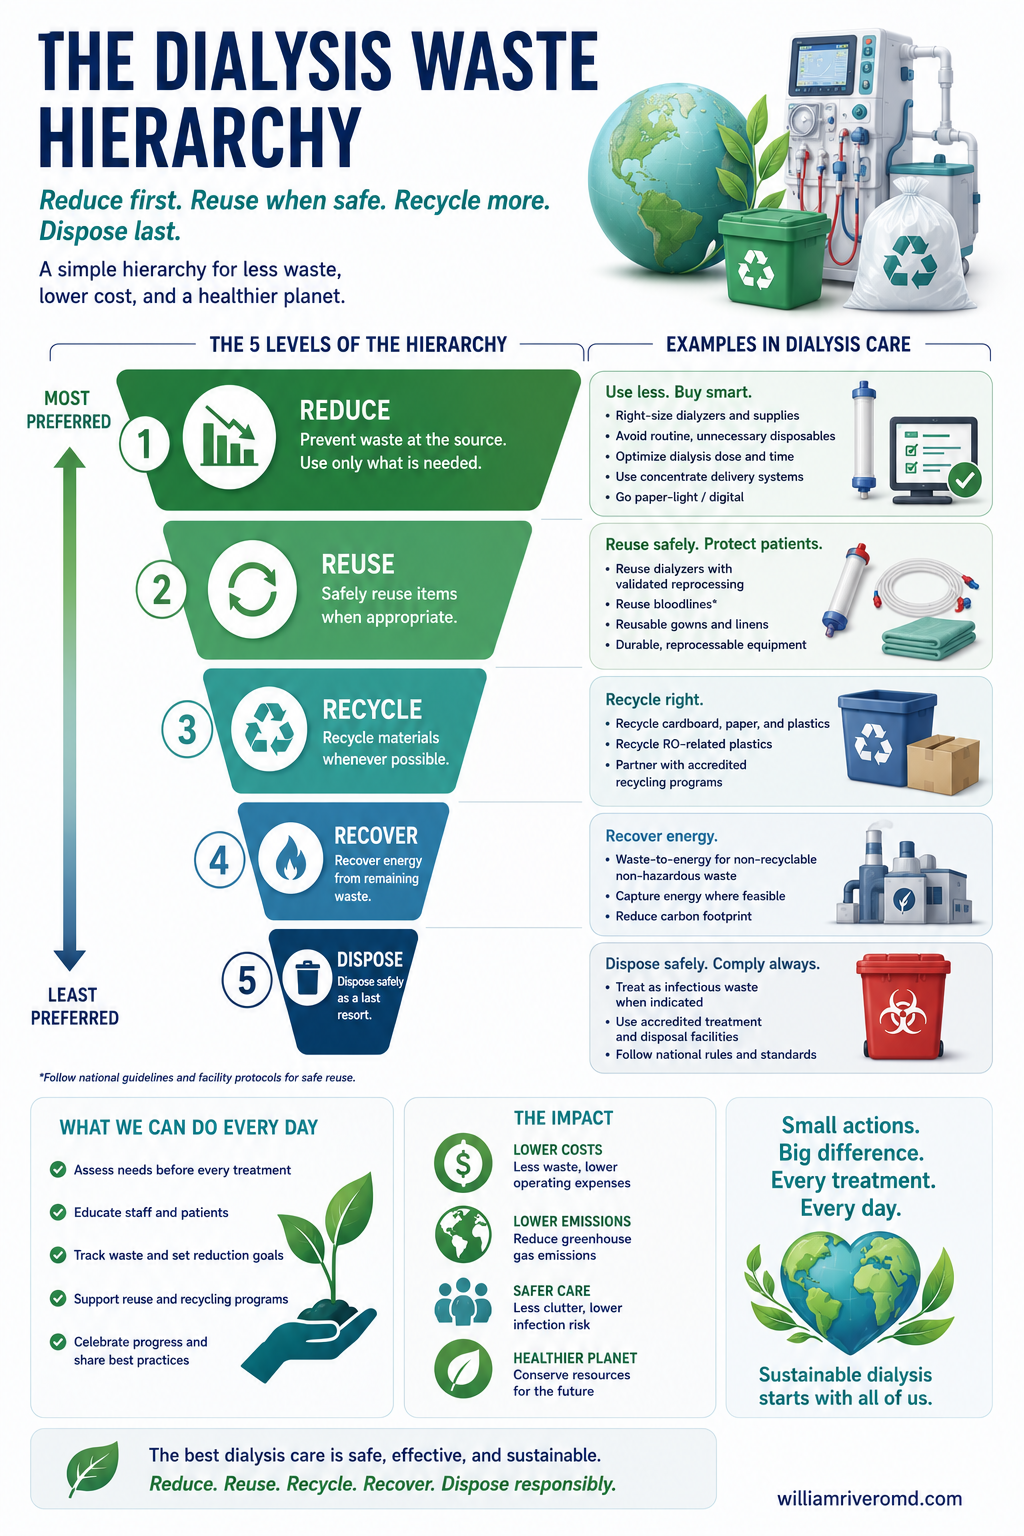
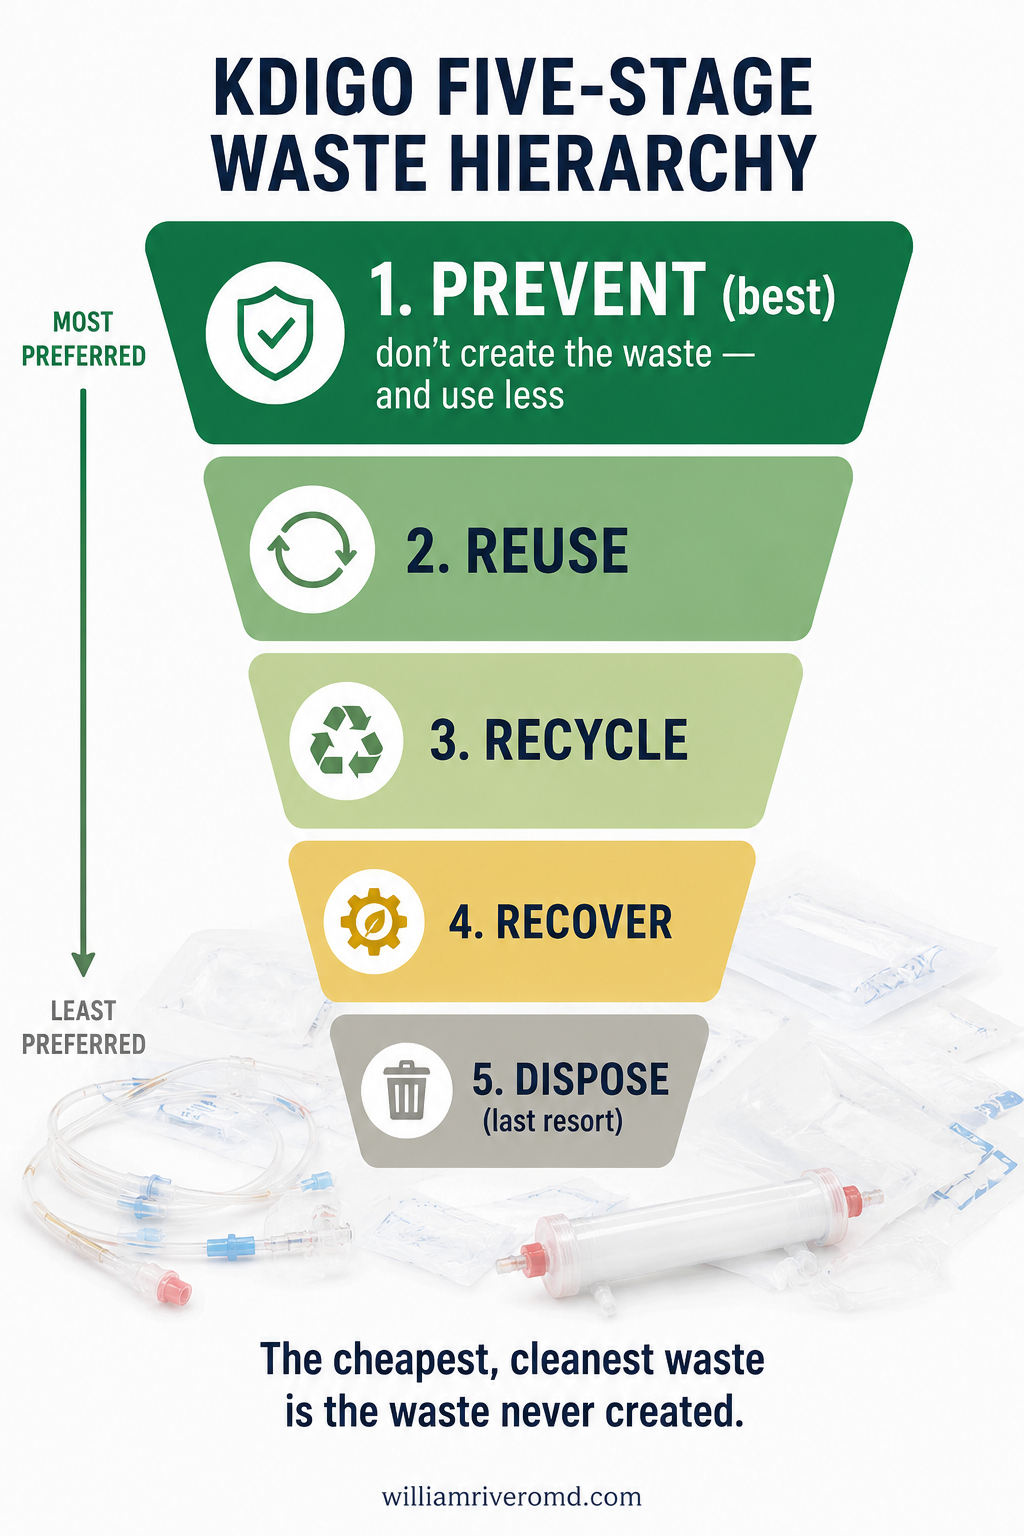
Replace 3 corrected Green Nephrology images (waste 5-stage, water/hidden ~400-500 L)
Drop in the regenerated images that passed QA against the 2026 KDIGO article:
waste-hierarchy now shows the KDIGO 5 stages (Prevent on top), and water-footprint
+ hidden-cost now read ~400-500 L (no Qd-as-machine, no fabricated pie/brands).
Updated HTML width/height for the two that changed shape to 1659x948.

diff --git a/guides/green-nephrology.html b/guides/green-nephrology.html
@@ -1569,7 +1569,7 @@ html[data-theme="dark"] .calc-row input,html[data-theme="dark"] .calc-row select
   <p>Hemodialysis saves lives, but it is among the most resource-intensive therapies in all of medicine — a footprint most people never see.</p>
 
 <figure class="illus-panel" style="max-width:760px;margin:24px auto;">
-  <img src="../images/hidden-environmental-cost-of-dialysis.png" alt="Inputs and outputs of one hemodialysis treatment — water, electricity, concentrates, and consumables in; wastewater, plastic, and carbon out." loading="lazy" width="1024" height="1536" style="border-radius:12px;display:block;width:100%;height:auto;">
+  <img src="../images/hidden-environmental-cost-of-dialysis.png" alt="Inputs and outputs of one hemodialysis treatment — water, electricity, concentrates, and consumables in; wastewater, plastic, and carbon out." loading="lazy" width="1659" height="948" style="border-radius:12px;display:block;width:100%;height:auto;">
 </figure>
 <p class="illus-caption">What one dialysis treatment really consumes.</p>
 
@@ -1775,7 +1775,7 @@ html[data-theme="dark"] .calc-row input,html[data-theme="dark"] .calc-row select
   <p>Producing the ultra-pure water that dialysis needs is water-hungry, and a large share never reaches the patient. In a water-scarce, climate-exposed country, stewarding that water matters more every year.</p>
 
 <figure class="illus-panel" style="max-width:760px;margin:24px auto;">
-  <img src="../images/dialysis-water-footprint.png" alt="Dialysis water path — municipal water to reverse osmosis to dialysis machine to wastewater, with 20–80% RO reject reclaimed for non-potable reuse." loading="lazy" width="1024" height="1536" style="border-radius:12px;display:block;width:100%;height:auto;">
+  <img src="../images/dialysis-water-footprint.png" alt="Dialysis water path — municipal water to reverse osmosis to dialysis machine to wastewater, with 20–80% RO reject reclaimed for non-potable reuse." loading="lazy" width="1659" height="948" style="border-radius:12px;display:block;width:100%;height:auto;">
 </figure>
 <p class="illus-caption">Where dialysis water goes — and where reject water can be reused.</p>
 
